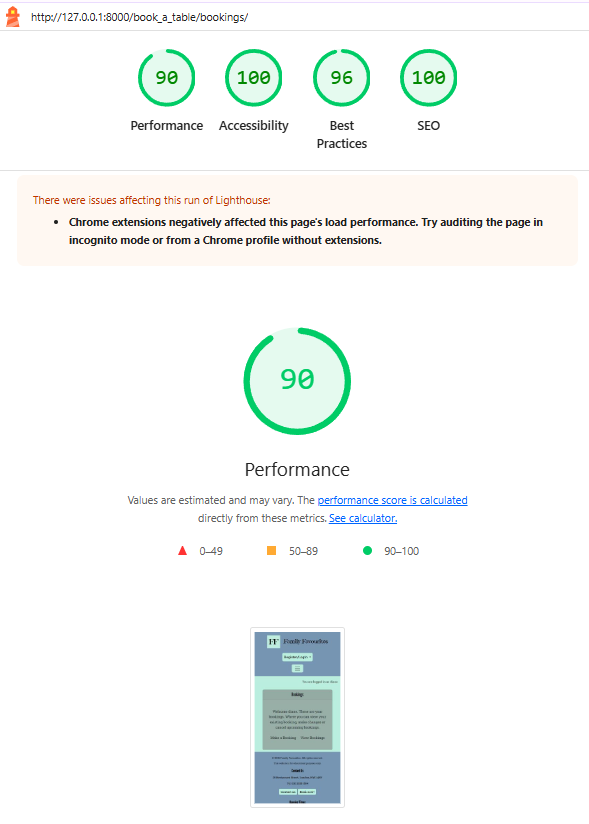
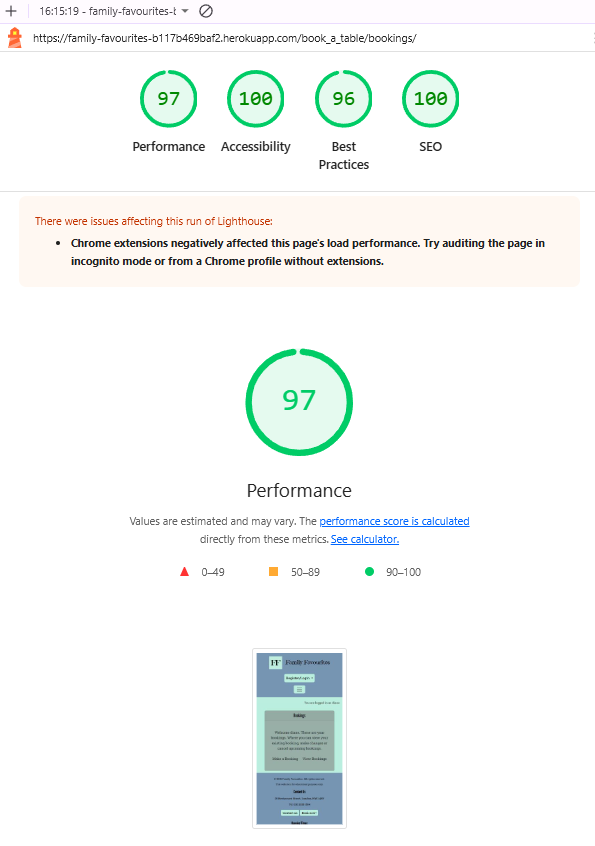
Update lighthouse performance results

diff --git a/TESTME.md b/TESTME.md
@@ -272,7 +272,7 @@ While using [Code Institute's Python Linter](https://pep8ci.herokuapp.com/) I ch
 
 ## Lighthouse Performance
 
-When looking at the performance, accessibility, best practices and the SEO of the website, I used Lighthouse in Chrome's development tools. The only one performing below the green was the home page in mobile format, which got a result of 89.
+When looking at the performance, accessibility, best practices and the SEO of the website, I used Lighthouse in Chrome's development tools. The only one performing below the green was the menu page in mobile format, which got a result of 89.
 
 There was an issue that popped up saying that Chrome extensions were affecting the page's performance but apart from the one mentioned above the other pages were all in the green as you can see in the following results:
 
